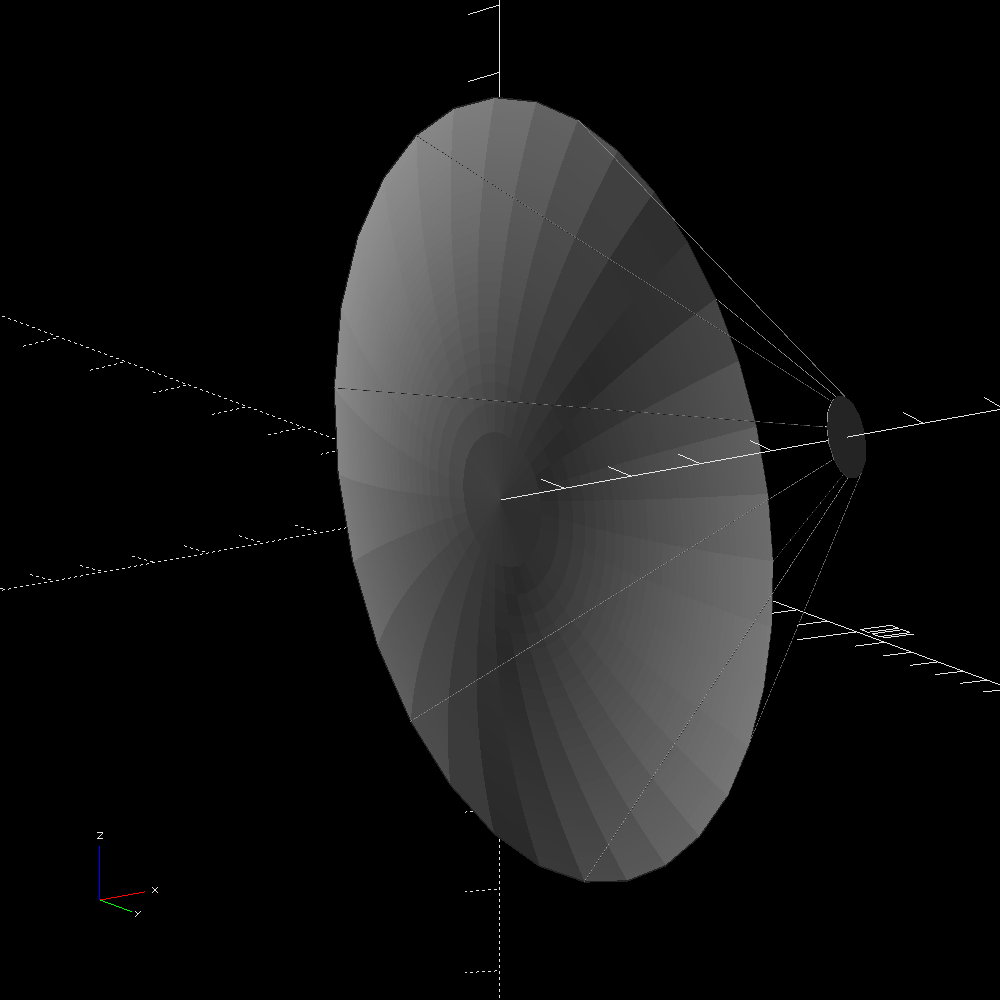
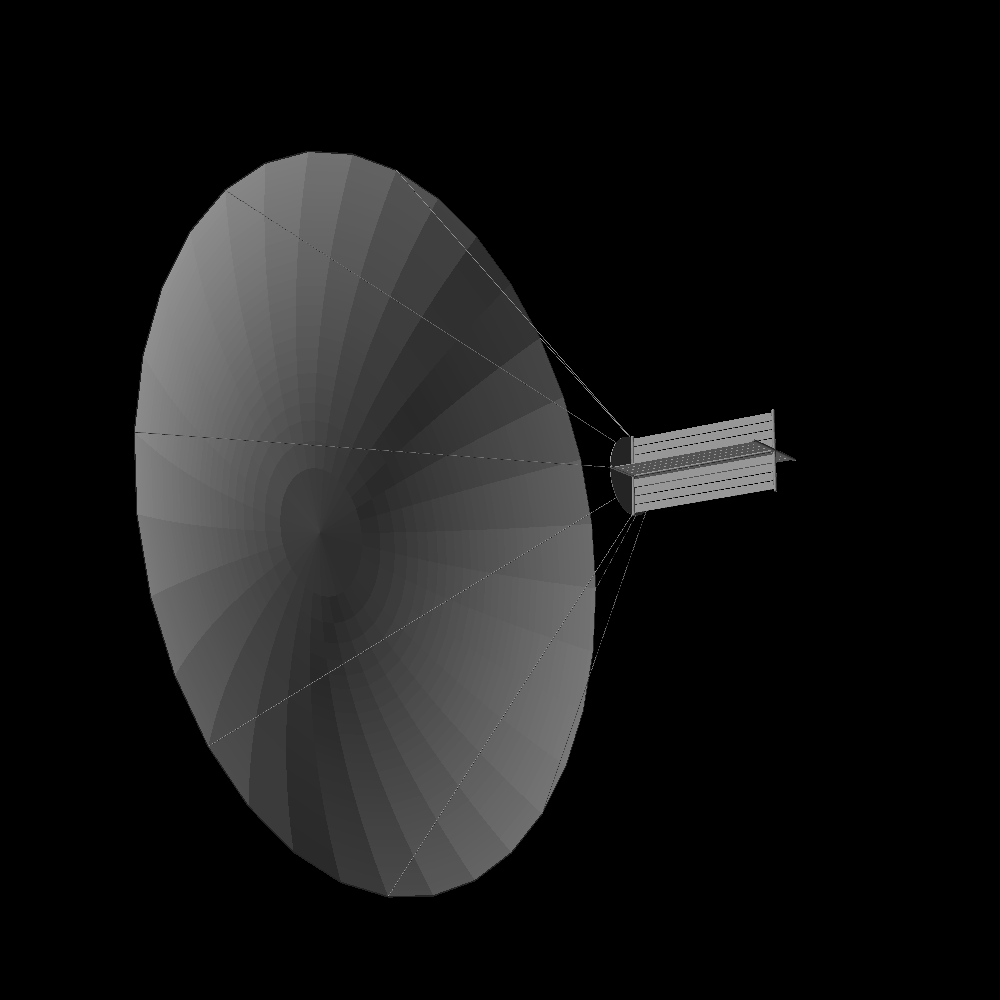
Concentrated solar array update
- added radiators to the solar array
- updated both page and model to fit
- re-rendered image of the concentrated solar array
- re-rendered image of the finespun settlement with the new solar arrays

diff --git a/pages/ftt_GaAs_photovoltaics.html b/pages/ftt_GaAs_photovoltaics.html
@@ -32,7 +32,7 @@ The casing [todo, figure out what the casing even is, and how it is produced].
 <img src="../images/ftt_concentrated_solar_array.webp" class="styled right vert"></img>
 <img src="../images/ftt_solar_array.webp" class="styled right vert"></img>
 <article>
-The included concentrated solar array uses a parabolic mirror to concentrate sunlight onto a much smaller disk covered with 1861 photovoltaic tiles.
+The included concentrated solar array uses a parabolic mirror to concentrate sunlight onto a much smaller disk covered with 7445 photovoltaic tiles.
 This greatly reduces cost, as the mirror itself is simply made of smooth-polished metal, which is much cheaper (in terms of energy cost) to produce than an equal area of photovoltaics.
 In this way solar power can remain viable at great distances such as those of the asteroid belt, but it comes with a downside that the array must be pointed straight at the sun, as even just 10 degrees of angle will move it out of focus and it will stop producing power completely, which stands in contrast with plain photovoltaic panels which will keep producing power as long as they are pointing anywhere within 90 degrees of the sun.
 <br><br>
@@ -63,6 +63,12 @@ In practice the array can't produce much more than 266.4 kW of power without add
 At that level of insolation the collector would reach 553K, meaning it would be radiating away 416kW of heat, meanwhile 266.4kW of the sunlight gets converted into electricity instead of heat.
 <br><br>
 For practical purposes 250kW of power output is a safe maximum.
+The solar collector assembly by default comes with 1000m<sup>2</sup> worth of low temperature radiators, which is enough to radiate away the full 666kW of combined power while remaining at a safe temperature of 330K.
+<!2×1m×25m×5×4 = 1000m2>
+<!2×1m×25m×5×4×stefan×(330K)^4 = 672.4616102 kW>
+<br><br>
+As the power cannot be easily transmitted from the solar array to other structures without wasting most of it in conversion losses, it tends to be the case that equipment is tacked directly onto the solar collector assembly and the power is used there immediately.
+That being the case, it is not uncommon for the solar array as a whole to be given a slow rotation, usually no faster than one turn per 140 seconds, so that gravity-needing equipment can function on it.
 </article>
 
 </html>
